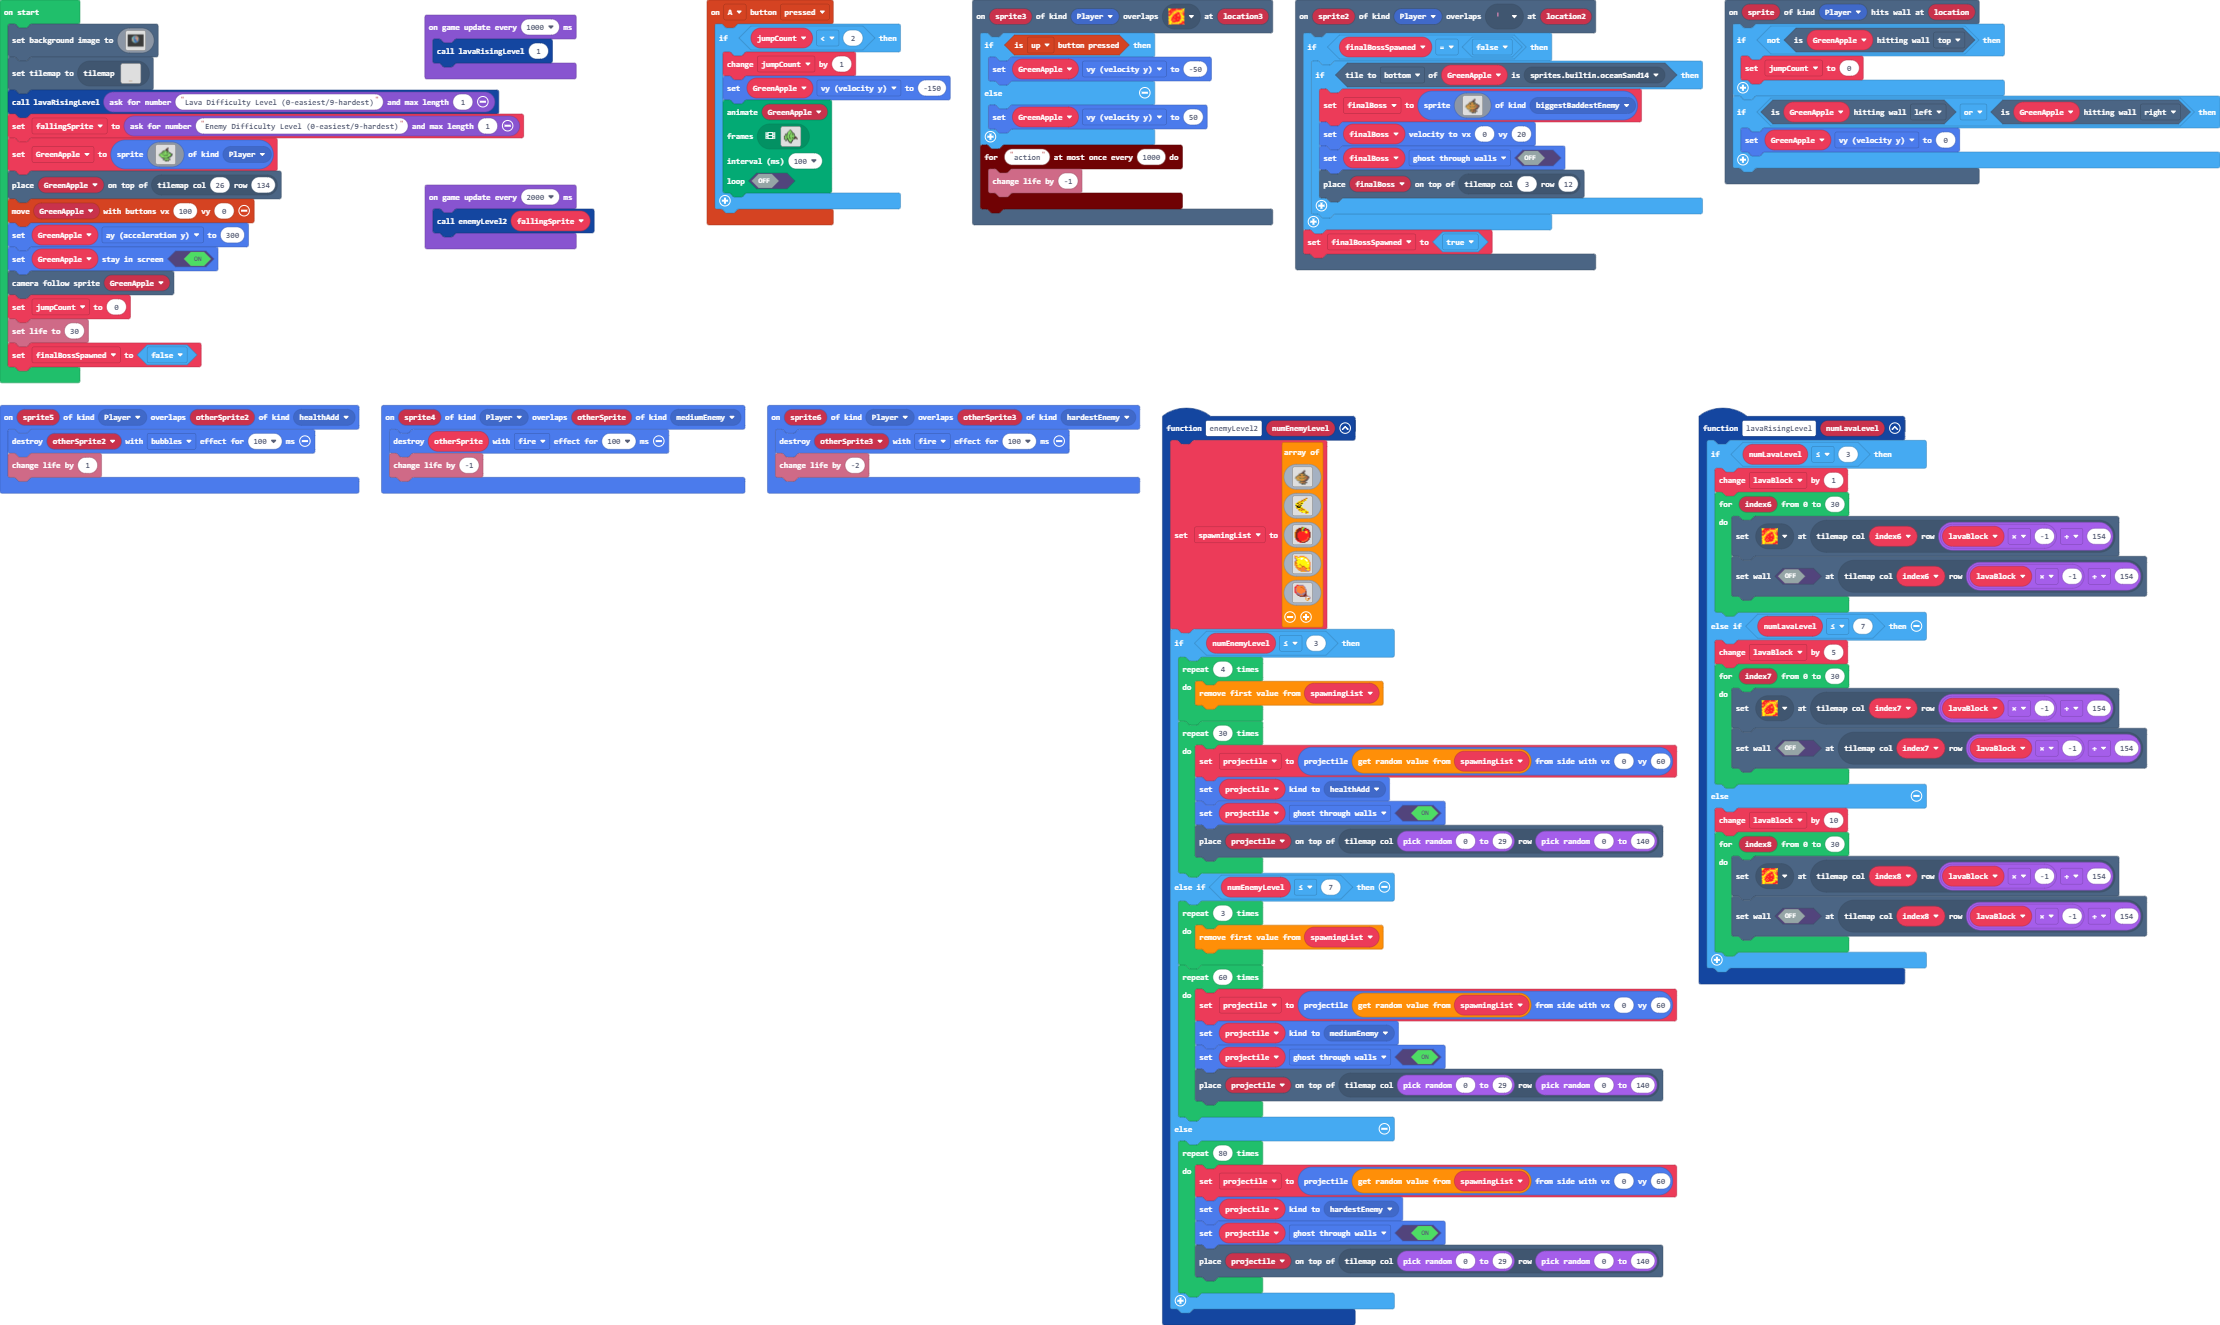
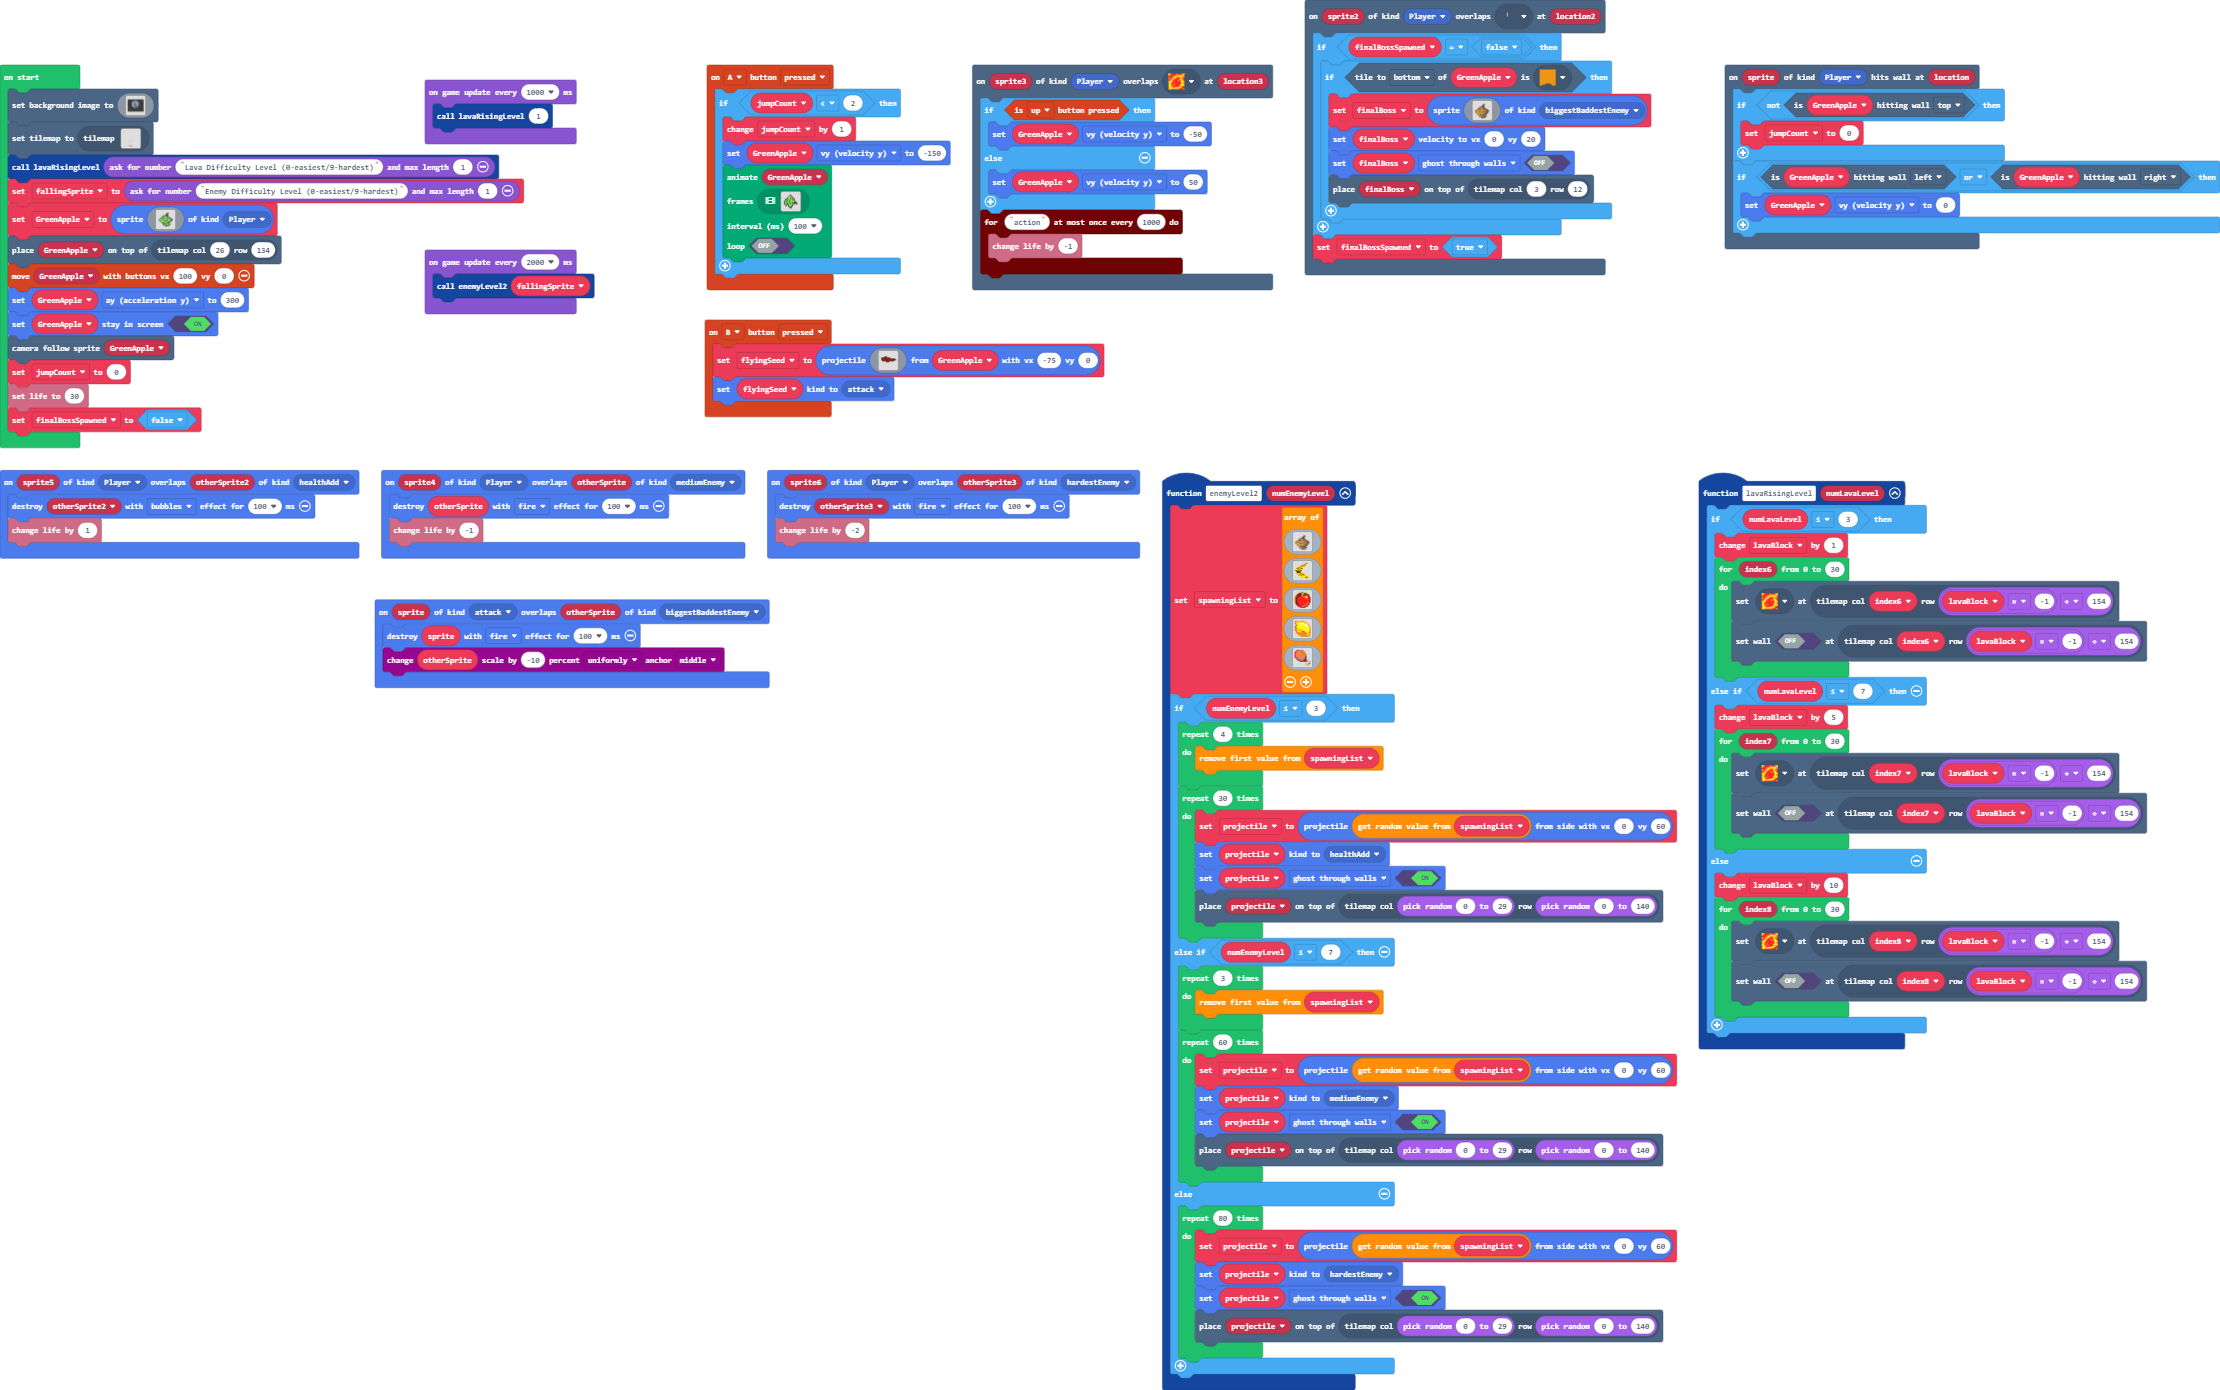
tilemap

Changed region(s): [[0.0, 0.0, 1.0, 0.9902], [0.1554, 0.4332, 0.3419, 0.4951]]

diff --git a/tilemap.g.ts b/tilemap.g.ts
@@ -150,6 +150,149 @@ namespace myTiles {
 ..............................
 ..............................
 `, [myTiles.transparency16,sprites.dungeon.hazardLava0,sprites.builtin.oceanDepths0,sprites.builtin.oceanDepths9,myTiles.tile1], TileScale.Sixteen);
+            case "Runrunrun":
[1 lines of base64/hex data omitted]
+..............................
+..............................
+..............................
+..............................
+..............................
+..............................
+..............................
+..............................
+..............................
+..............................
+..............................
+..............................
+..............................
+..............................
+..............................
+..............................
+..............................
+..............................
+..............................
+..............................
+..............................
+..............................
+..............................
+..............................
+..............................
+..............................
+..............................
+..............................
+..............................
+..............................
+..............................
+..............................
+..............................
+..............................
+..............................
+..............................
+..............................
+..............................
+..............................
+..............................
+..............................
+..............................
+..............................
+..............................
+..............................
+..............................
+..............................
+..............................
+..............................
+..............................
+..............................
+..............................
+..............................
+..............................
+..............................
+..............................
+..............................
+..............................
+..............................
+..............................
+..............................
+..............................
+..............................
+..............................
+..............................
+..............................
+..............................
+..............................
+..............................
+..............................
+..............................
+..............................
+..............................
+..............................
+..............................
+..............................
+..............................
+..............................
+..............................
+..............................
+...2222.......................
+..............................
+..........2222................
+..............................
+..............................
+..................222.........
+....................2222222222
+.............................2
+.............................2
+...........22....2222222222222
+..............................
+..............................
+2222..........................
+..............................
+..............................
+..............................
+..............................
+.......2..........2...........
+..............................
+..............................
+..........................2222
+..............................
+..............................
+..............2222222.........
+..............................
+......22222...................
+.....22.......................
+..............................
+..............................
+..............................
+..............................
+..............................
+222...........................
+..............................
+..............................
+..............................
+.....2......2.................
+..............................
+..............................
+..............................
+...............2...2..........
+...............2...2..........
+...............2...2..........
+.........2....................
+........................22222.
+..............................
+..............................
+..2222..........222222........
+..............................
+..............................
+.........22222................
+..............................
+..............................
+................22222.........
+..............................
+..............................
+222222222222222222222222222222
+..............................
+..............................
+..............................
+`, [myTiles.transparency16,sprites.dungeon.hazardLava0,sprites.builtin.oceanDepths9,sprites.dungeon.hazardHole,sprites.castle.tilePath5], TileScale.Sixteen);
         }
         return null;
     })

diff --git a/main.ts b/main.ts
@@ -3,6 +3,7 @@ namespace SpriteKind {
     export const mediumEnemy = SpriteKind.create()
     export const hardestEnemy = SpriteKind.create()
     export const biggestBaddestEnemy = SpriteKind.create()
+    export const attack = SpriteKind.create()
 }
 scene.onHitWall(SpriteKind.Player, function (sprite, location) {
     if (!(GreenApple.isHittingTile(CollisionDirection.Top))) {
@@ -11,6 +12,31 @@ scene.onHitWall(SpriteKind.Player, function (sprite, location) {
     if (GreenApple.isHittingTile(CollisionDirection.Left) || GreenApple.isHittingTile(CollisionDirection.Right)) {
         GreenApple.vy = 0
     }
+})
+sprites.onOverlap(SpriteKind.attack, SpriteKind.biggestBaddestEnemy, function (sprite, otherSprite) {
+    sprites.destroy(sprite, effects.fire, 100)
+    scaling.scaleByPercent(otherSprite, -10, ScaleDirection.Uniformly, ScaleAnchor.Middle)
+})
+controller.B.onEvent(ControllerButtonEvent.Pressed, function () {
+    flyingSeed = sprites.createProjectileFromSprite(img`
+        . . . . . . . . . . . . . . . . 
+        . . . . . . . . . . . . . . . . 
+        . . . . . . . . . . . . . . . . 
+        . . . . . . . . . . . . . . . . 
+        . . . . e e e . . . . . . . . . 
+        . e e e e e e e e e . . . . . . 
+        . e e e e e e e e e e e e e e . 
+        . e e e e e e e e e e e e e e e 
+        . . e e e e e e e e e e e e . . 
+        . . . . . . e e e . . . . . . . 
+        . . . . . . . . . . . . . . . . 
+        . . . . . . . . . . . . . . . . 
+        . . . . . . . . . . . . . . . . 
+        . . . . . . . . . . . . . . . . 
+        . . . . . . . . . . . . . . . . 
+        . . . . . . . . . . . . . . . . 
+        `, GreenApple, -75, 0)
+    flyingSeed.setKind(SpriteKind.attack)
 })
 sprites.onOverlap(SpriteKind.Player, SpriteKind.healthAdd, function (sprite5, otherSprite2) {
     sprites.destroy(otherSprite2, effects.bubbles, 100)
@@ -260,6 +286,7 @@ let finalBoss: Sprite = null
 let lavaBlock = 0
 let projectile: Sprite = null
 let spawningList: Image[] = []
+let flyingSeed: Sprite = null
 let finalBossSpawned = false
 let jumpCount = 0
 let GreenApple: Sprite = null
@@ -385,7 +412,7 @@ scene.setBackgroundImage(img`
     ffffffffffffffffffffffffffffffffffffffffffffffffffffffffffffffffffffffffffffffffffffffffffffffffffffffffffffffffffffffffffffffffffffffffffffffffffffffffffffffff
     ffffffffffffffffffffffffffffffffffffffffffffffffffffffffffffffffffffffffffffffffffffffffffffffffffffffffffffffffffffffffffffffffffffffffffffffffffffffffffffffff
     `)
-tiles.setCurrentTilemap(tilemap`level1`)
+tiles.setCurrentTilemap(tilemap`Runrunrun`)
 lavaRisingLevel(game.askForNumber("Lava Difficulty Level (0-easiest/9-hardest)", 1))
 let fallingSprite = game.askForNumber("Enemy Difficulty Level (0-easiest/9-hardest)", 1)
 GreenApple = sprites.create(assets.image`myImage`, SpriteKind.Player)
